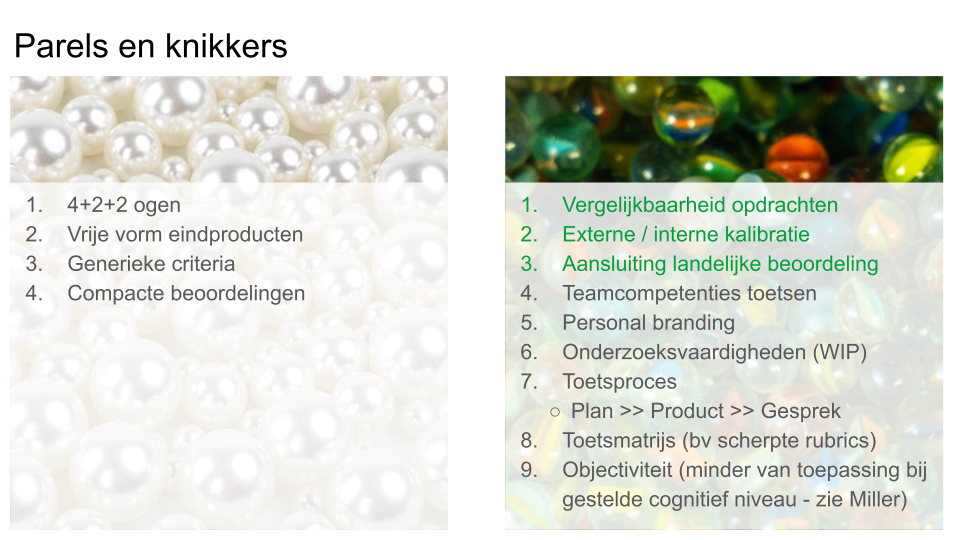
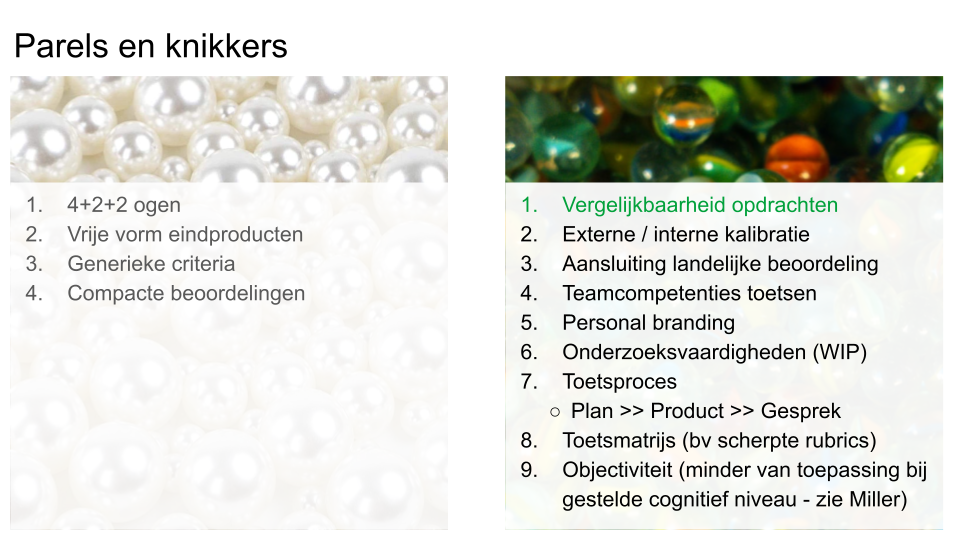
Added content

diff --git a/reflectie.html b/reflectie.html
@@ -38,7 +38,7 @@ ul.task-list{list-style: none;}
 <div id="quarto-content" class="page-columns page-rows-contents page-layout-article">
 <div id="quarto-margin-sidebar" class="sidebar margin-sidebar">
   <nav id="TOC" role="doc-toc">
-    <h2 id="toc-title">Table of contents</h2>
+    <h2 id="toc-title">Inhoudsopgave</h2>
    
   <ul>
   <li><a href="#handelen-binnen-de-context-van-toetsbeleid-en--organisatie" id="toc-handelen-binnen-de-context-van-toetsbeleid-en--organisatie" class="nav-link active" data-scroll-target="#handelen-binnen-de-context-van-toetsbeleid-en--organisatie">Handelen binnen de context van toetsbeleid en -organisatie</a></li>
@@ -60,7 +60,7 @@ ul.task-list{list-style: none;}
 <div class="quarto-title-meta">
 
     <div>
-    <div class="quarto-title-meta-heading">Author</div>
+    <div class="quarto-title-meta-heading">Auteur</div>
     <div class="quarto-title-meta-contents">
              <p>Witek ten Hove </p>
           </div>
@@ -83,12 +83,16 @@ ul.task-list{list-style: none;}
 <p>Omdat de AOD de afsluiting van het studietraject vormt, heeft deze toets altijd veel aandacht gekregen, zowel binnen de opleiding als bij externe stakeholders (bijv. bij tijdens accreditatie). Het huidige ontwerp, inclusief het bijbehorende kwaliteitssysteem werkt naar tevredenheid van alle betrokken (dit wordt regelmatig gecontroleerd m.b.v. kalibratiesessies).</p>
 <p>Tijdens de eerst BKE-sessie hebben we bepaald welke aspecten van het huidige AOD-systeem we uitmuntend vinden (‘de parels’) en welke aspecten nog aandacht verdienen (‘de knikkers’).</p>
 <p><img src="parels.png" class="img-fluid"></p>
+<p>De aandachtspunten hebben we gesorteerd naar prioriteit. Na deze inventarisatie hebben we besloten om te focussen op het eerste onderwerp, nl. de vergelijkbaarheid van opdrachten.</p>
 </section>
 <section id="toepassen-toetskennis-en--vaardigheden" class="level2">
 <h2 class="anchored" data-anchor-id="toepassen-toetskennis-en--vaardigheden">Toepassen toetskennis en -vaardigheden</h2>
-<p>Als we kijken naar het model van Miller dan vindt de toetsing plaats op de hoogste cognitieve niveaus (‘Does’ en ‘Trusted’). De student moet hier laten zien dat hij gereed is om zelfstandig in de praktijk als professional te opereren.</p>
-<p>Een afstudeeropdracht wordt dus altijd uitgevoerd in de praktijk. Dit maakt het onmogelijk om een beheersbare toetsomgeving te creëren waarin iedere student objectief getoetst wordt. Er is dus sprake van een hoge mate van authenticiteit en een hoge subjectiviteit.</p>
+<p>Als we kijken naar het model van Miller dan vindt de toetsing plaats op de hoogste cognitieve niveaus (‘Does’ en ‘Trusted’). De student moet hier laten zien dat hij gereed is om zelfstandig in de praktijk als professional te opereren en verdiend hiermee zijn Bachelor diploma.</p>
+<p>Een afstudeeropdracht wordt bij onze opleiding altijd uitgevoerd in de praktijk. Dit maakt het per definitie onmogelijk om een beheersbare toetsomgeving te creëren waarin iedere student objectief getoetst wordt. Er is dus sprake van een hoge mate van authenticiteit en een hoge subjectiviteit.</p>
 <p><img src="miller.png" class="img-fluid"></p>
+<p>Één van de factoren die de subjectiviteit van de AOD als toets kan verhogen, is een verschil in complexiteit van opdrachten. Op dit moment zijn er criteria geformuleerd om een basiscomplexiteit van de opdracht te borgen. Echter uit ervaring blijkt dat er toch nog veel variantie is qua zwaarte van de opdracht.</p>
+<p><img src="complexiteit1.png" class="img-fluid"> We hebben vervolgens onze eigen criteria vergeleken met hetgeen op landelijk niveau over dit onderwerp beschreven wordt en kwamen tot de conclusie dat op een aantal punten kwaliteitsverbetering wenselijk is.</p>
+<p><img src="loobk.png" class="img-fluid"></p>
 </section>
 <section id="continue-ontwikkeling-toetsbekwaamheid" class="level2">
 <h2 class="anchored" data-anchor-id="continue-ontwikkeling-toetsbekwaamheid">Continue ontwikkeling toetsbekwaamheid</h2>
